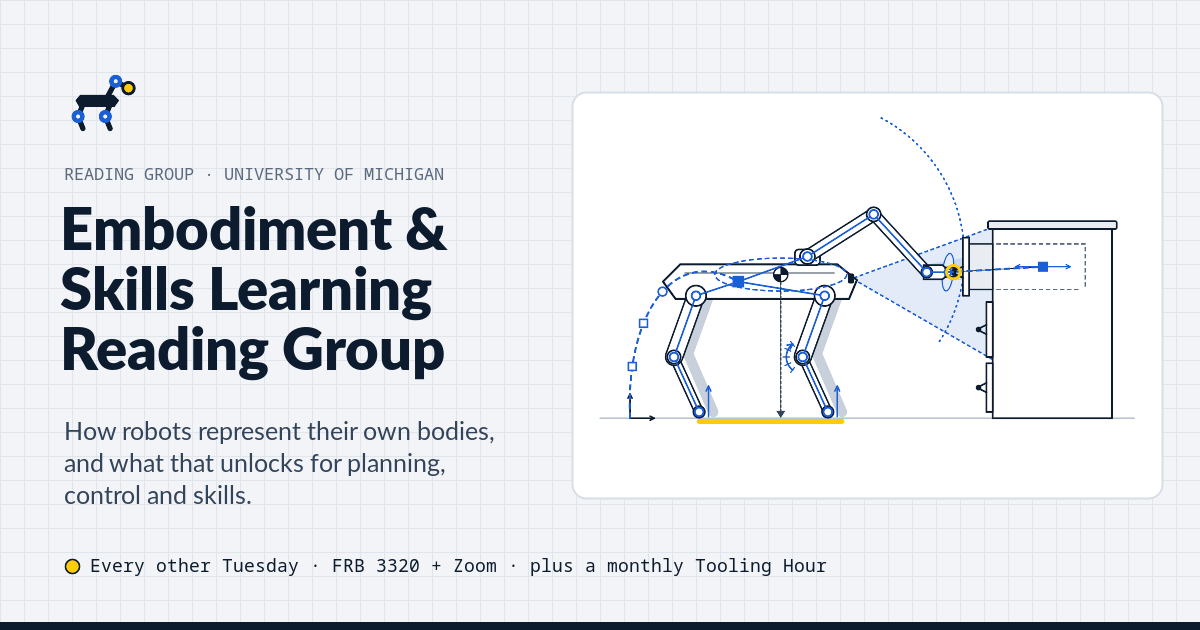
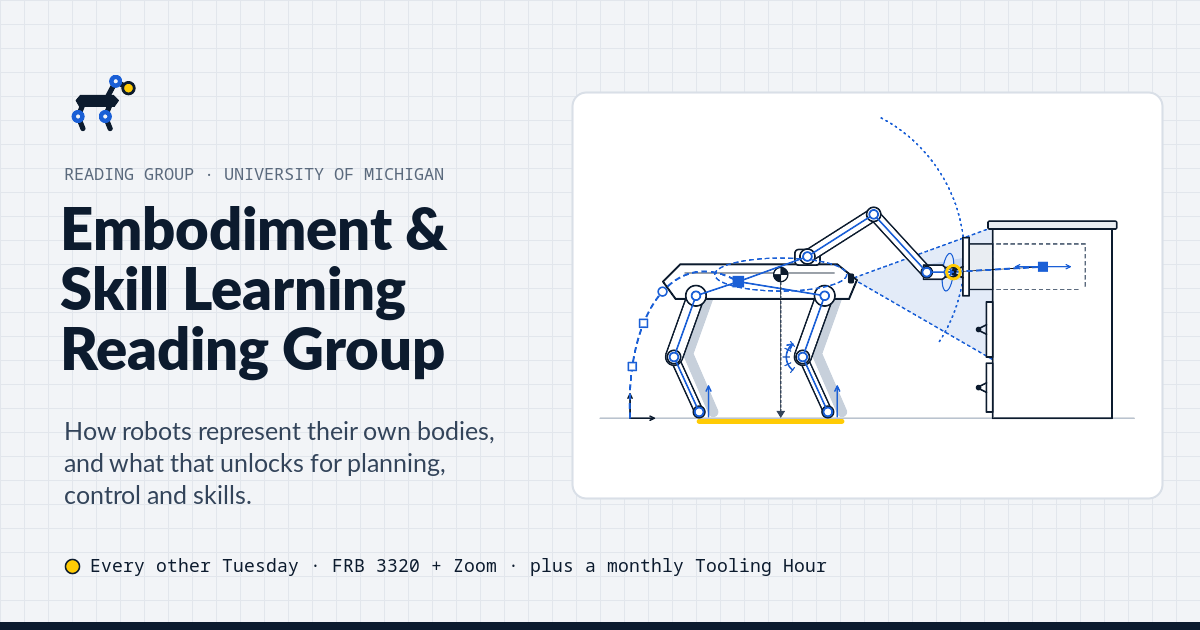
Update "skill"

Changed region(s): [[0.1233, 0.4222, 0.37, 0.5127]]

diff --git a/index.html b/index.html
@@ -10,7 +10,7 @@ layout: default
 {%- endfor -%}
 {%- assign m = site.meeting -%}
 {%- assign emails = site.data.organizers.current | map: "email" | join: "," -%}
-{%- capture invite -%}mailto:{{ emails }}?subject=Slack%20invite%3A%20{{ site.links.slack_channel | replace: "#", "%23" }}&amp;body=Hi%2C%20I%27d%20like%20to%20join%20the%20Embodiment%20%26%20Skills%20Learning%20Reading%20Group.%0A%0AName%3A%20%0ALab%20or%20program%3A%20{%- endcapture -%}
+{%- capture invite -%}mailto:{{ emails }}?subject=Slack%20invite%3A%20{{ site.links.slack_channel | replace: "#", "%23" }}&amp;body=Hi%2C%20I%27d%20like%20to%20join%20the%20Embodiment%20%26%20Skill%20Learning%20Reading%20Group.%0A%0AName%3A%20%0ALab%20or%20program%3A%20{%- endcapture -%}
 
 <div class="wrap page-end">
 

diff --git a/sessions.html b/sessions.html
@@ -66,7 +66,7 @@ toc:
     <span class="copy-status" data-copy-status aria-live="polite"></span>
   </div>
   <pre id="template-md" class="outline" hidden><code># [Paper title]
-Presenter: [name] · Embodiment & Skills Learning Reading Group · [date]
+Presenter: [name] · Embodiment & Skill Learning Reading Group · [date]
 
 ## Problem setting and assumptions
 ## Core idea, in one sentence

diff --git a/_tools/artwork/gen_assets.py b/_tools/artwork/gen_assets.py
@@ -50,7 +50,7 @@ def og_image():
              + MARK.format(links="#0C1B2E", bg="#F2F4F7", joint="#1A5FD6").replace('fill="#FFCB05"', 'fill="#FFCB05" stroke="#0C1B2E" stroke-width="1.4"')
              + "</g>")
     o.append('<text x="64" y="180" font-family="Noto Sans Mono" font-size="17" fill="#5B6A7D">READING GROUP · UNIVERSITY OF MICHIGAN</text>')
-    for i, line in enumerate(("Embodiment &amp;", "Skills Learning", "Reading Group")):
+    for i, line in enumerate(("Embodiment &amp;", "Skill Learning", "Reading Group")):
         o.append(f'<text x="60" y="{250 + i * 60}" font-family="Lato" font-weight="900" font-size="58" fill="#0C1B2E">{line}</text>')
     o.append('<text x="64" y="440" font-family="Lato" font-weight="400" font-style="normal" font-size="25" fill="#33445A">How robots represent their own bodies,</text>')
     o.append('<text x="64" y="472" font-family="Lato" font-weight="400" font-style="normal" font-size="25" fill="#33445A">and what that unlocks for planning,</text>')

diff --git a/README.md b/README.md
@@ -1,6 +1,6 @@
-# Embodiment & Skills Learning Reading Group
+# Embodiment & Skill Learning Reading Group
 
-Website for the Embodiment & Skills Learning Reading Group, a research reading group at the University of Michigan on how representations of a robot's body and physical constraints unlock capabilities for planning, control and transferable skills.
+Website for the Embodiment & Skill Learning Reading Group, a research reading group at the University of Michigan on how representations of a robot's body and physical constraints unlock capabilities for planning, control and transferable skills.
 
 **Live site:** https://m-and-m-lab.github.io/emrobo-reading-group/
 
